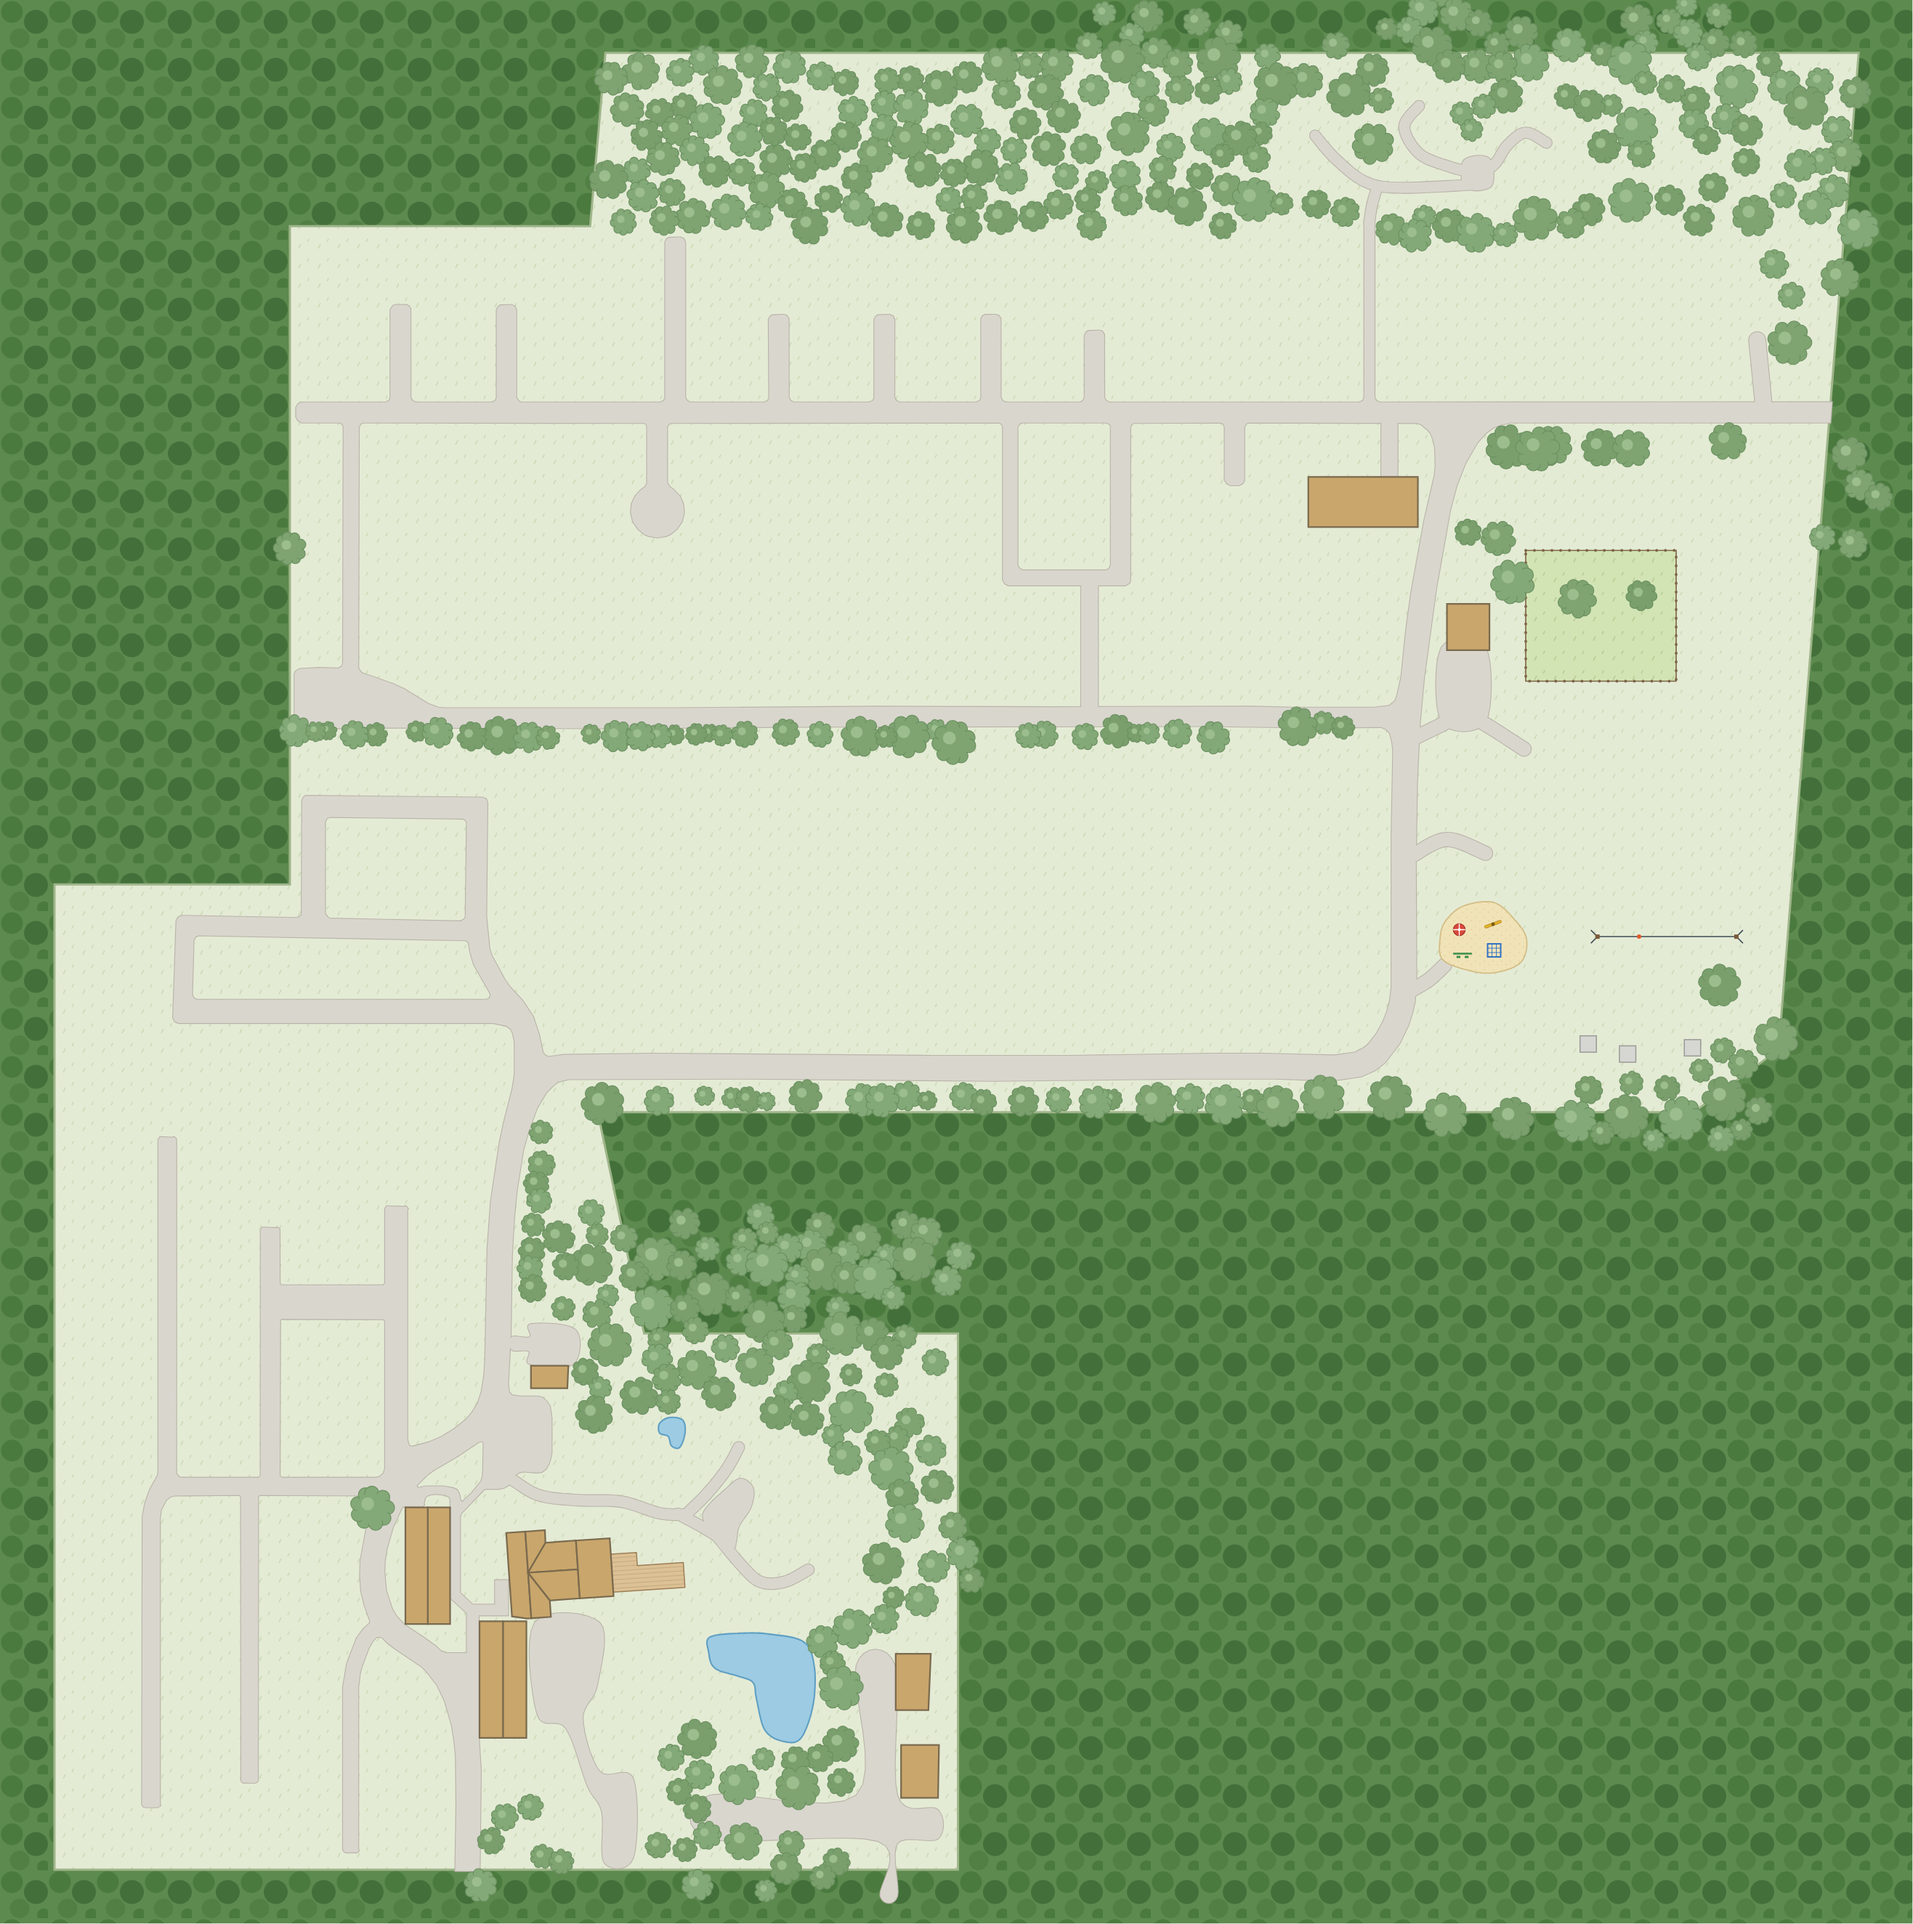
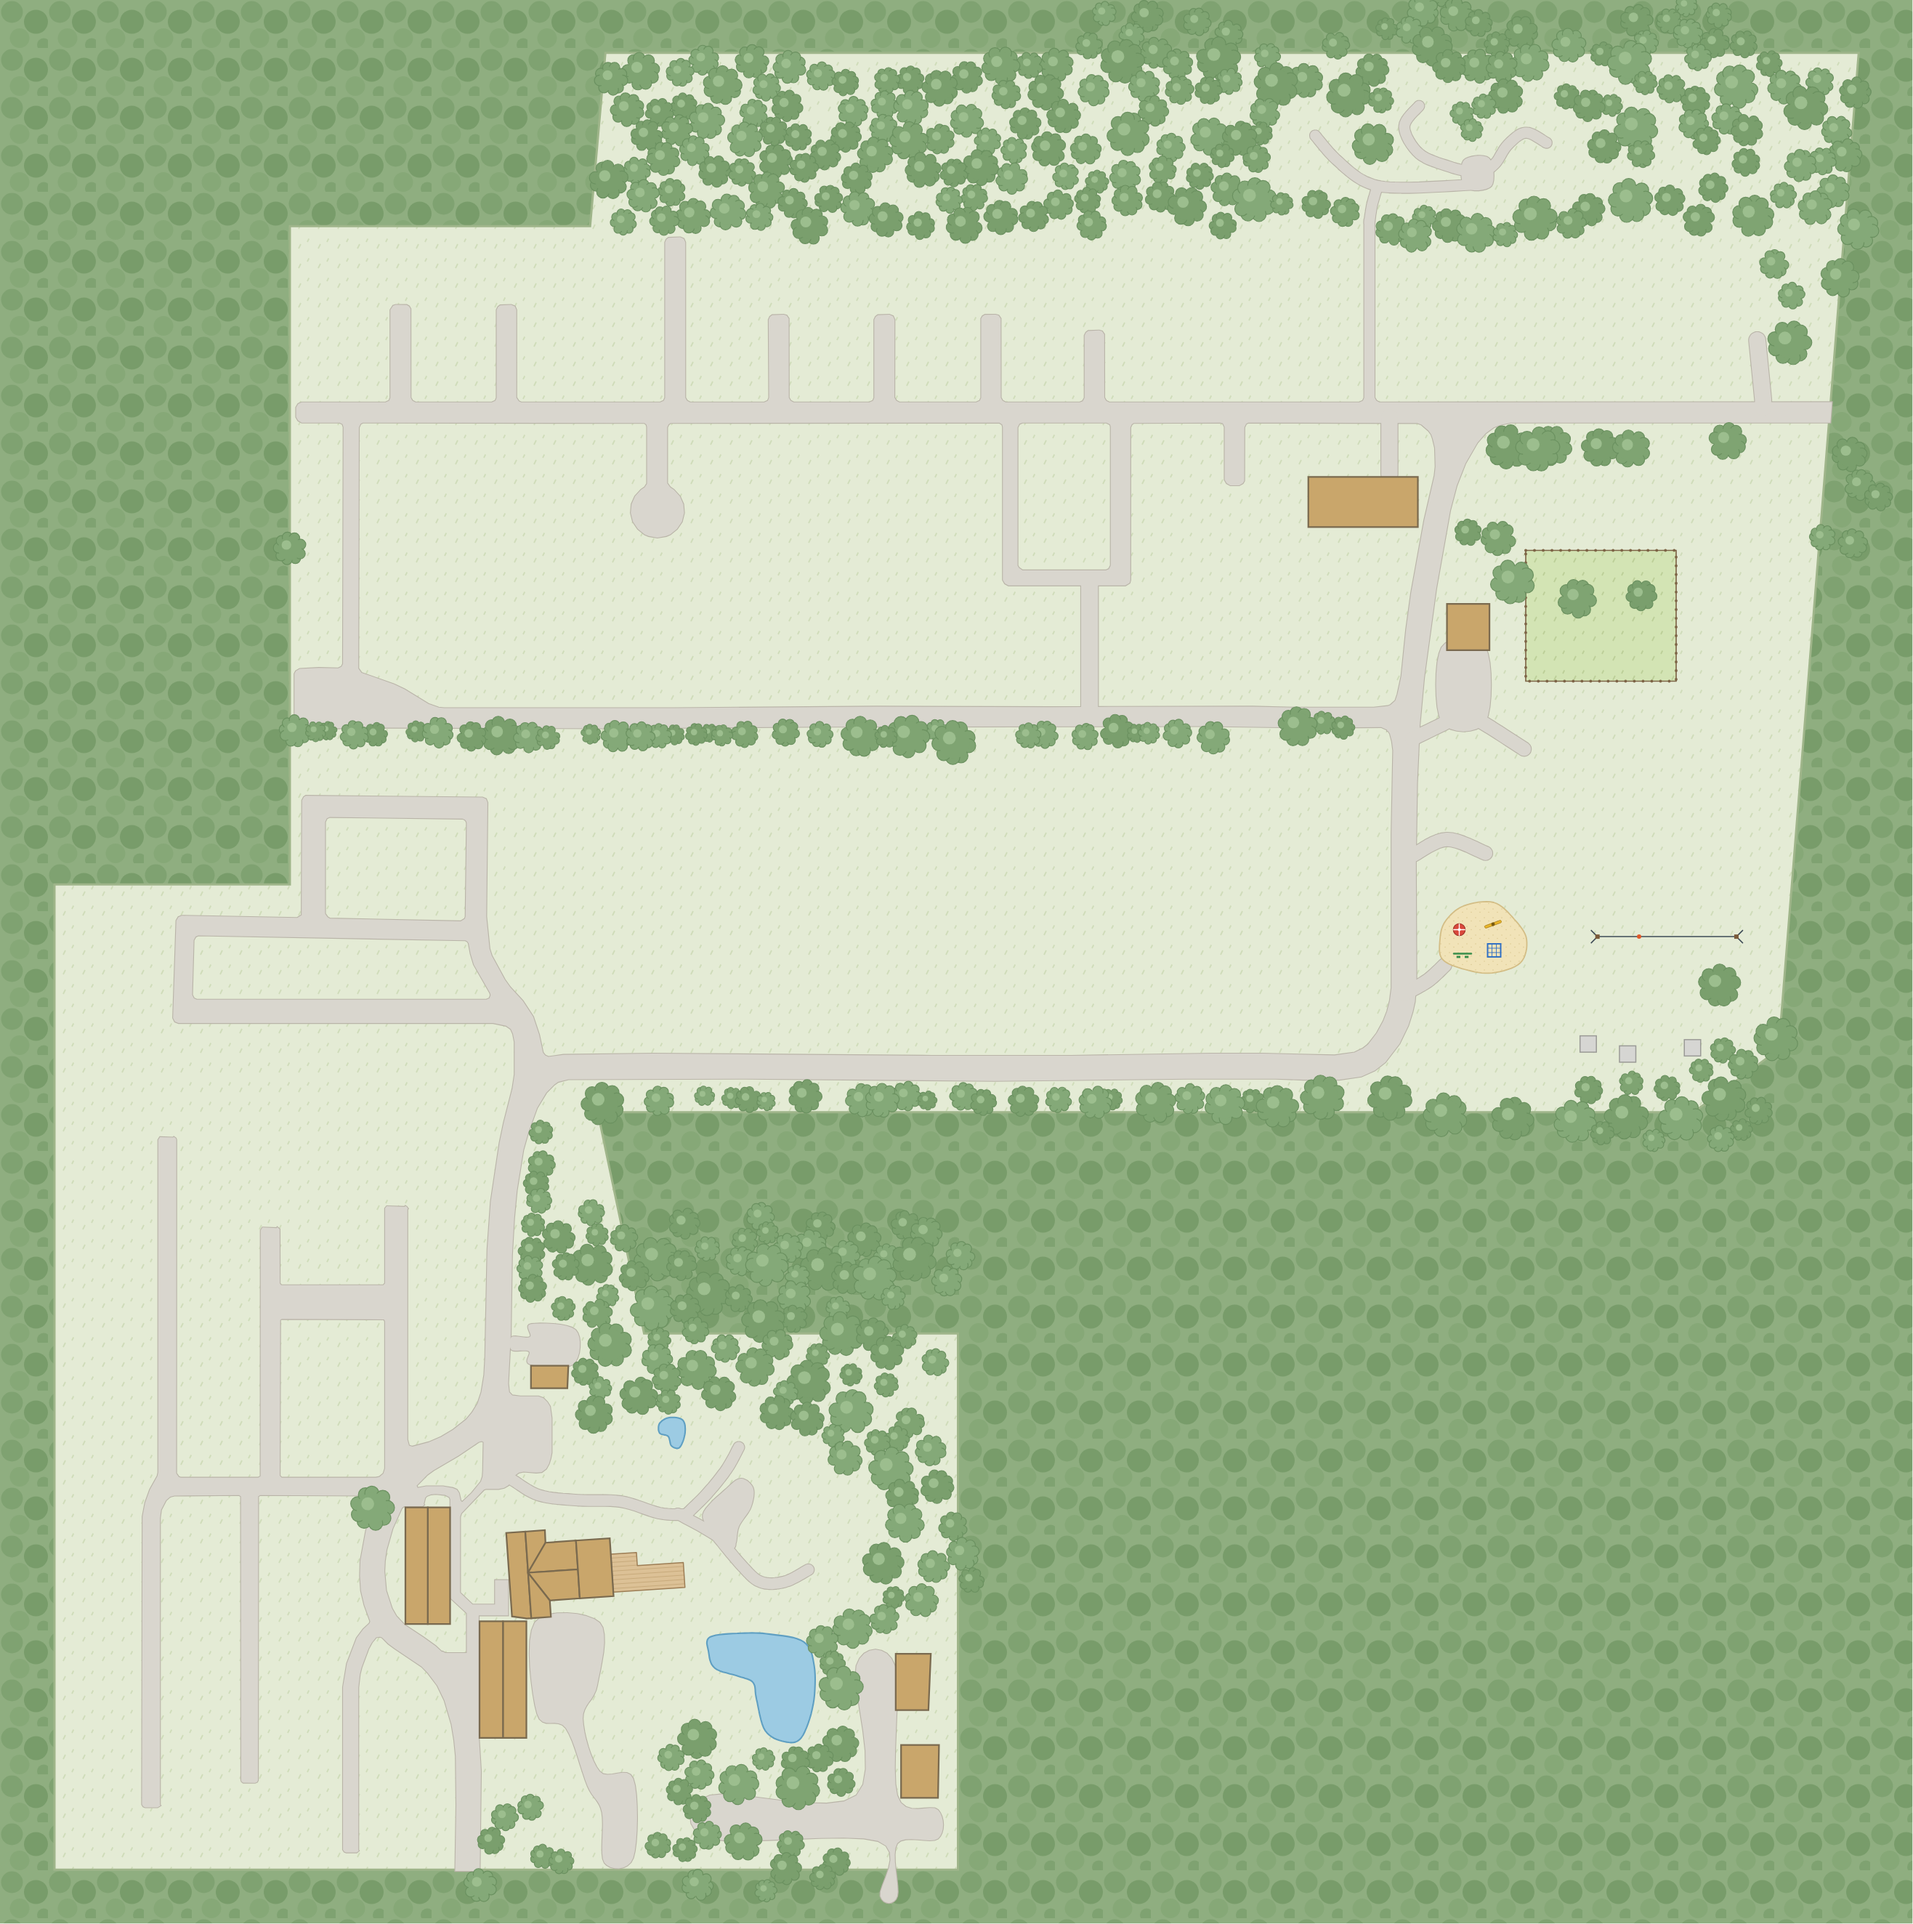
Map: grüner Waldhintergrund blasser
Claude-Session: https://claude.ai/code/session_01K9DeygwidK5Vn3tNvMZyhh

diff --git a/css/style.css b/css/style.css
@@ -194,7 +194,7 @@ input:focus, select:focus, textarea:focus { outline: none; border-color: var(--w
 .map-modebar .grow { flex: 1; min-width: 160px; }
 
 .map-wrap { position: relative; flex: 1; min-height: 0; }
-#map { position: absolute; inset: 0; background: #5d8a4e; }
+#map { position: absolute; inset: 0; background: #8fae80; }
 #map.is-drawing { cursor: crosshair; }
 .leaflet-container { font-family: var(--font-body); }
 .leaflet-control-zoom a { width: 36px !important; height: 36px !important; line-height: 36px !important; color: var(--wald) !important; }

diff --git a/tools/plan_import.py b/tools/plan_import.py
@@ -327,9 +327,9 @@ def main():
     svg = [f'<svg xmlns="http://www.w3.org/2000/svg" viewBox="0 0 {W} {H}" width="{W}" height="{H}">',
            '<!-- Erzeugt mit tools/plan_import.py aus dem AutoCAD-Lageplan. Nicht von Hand bearbeiten. -->',
            '<defs>',
-           '<pattern id="wald" width="44" height="44" patternUnits="userSpaceOnUse"><rect width="44" height="44" fill="#5d8a4e"/>'
-           '<circle cx="11" cy="11" r="10" fill="#4b7a3f"/><circle cx="33" cy="20" r="11" fill="#43703a"/>'
-           '<circle cx="18" cy="35" r="9" fill="#527f44"/><circle cx="40" cy="41" r="6" fill="#4b7a3f"/></pattern>',
+           '<pattern id="wald" width="44" height="44" patternUnits="userSpaceOnUse"><rect width="44" height="44" fill="#8fae80"/>'
+           '<circle cx="11" cy="11" r="10" fill="#7fa271"/><circle cx="33" cy="20" r="11" fill="#789c6a"/>'
+           '<circle cx="18" cy="35" r="9" fill="#86a877"/><circle cx="40" cy="41" r="6" fill="#7fa271"/></pattern>',
            '<pattern id="gras" width="18" height="18" patternUnits="userSpaceOnUse"><rect width="18" height="18" fill="#e4ebd5"/>'
            '<path d="M4 12 l2 -4 M12 6 l1.5 -3" stroke="#cfdcb9" stroke-width="1.2"/></pattern>',
            '</defs>',

diff --git a/tools/plan_extras.py b/tools/plan_extras.py
@@ -22,6 +22,7 @@ from shapely.geometry import LineString, Point, Polygon
 from shapely.ops import nearest_points, unary_union
 
 ROOT = Path(__file__).resolve().parent.parent
+WALD_FARBEN = {'#5d8a4e': '#8fae80', '#4b7a3f': '#7fa271', '#43703a': '#789c6a', '#527f44': '#86a877'}
 ROAD_FILL, ROAD_EDGE = '#d9d6ce', '#b9b4a8'   # wie die Wege aus plan_import.py
 
 
@@ -254,6 +255,9 @@ def main():
     had = 'wald' in F
     svg = Path(args.svg).read_text()
     svg = re.sub(r'<g id="extras">.*?<!-- /extras -->\n', '', svg, flags=re.S)   # alte Extras entfernen
+    # Waldhintergrund blasser (ältere Pläne aus plan_import.py hatten kräftigere Farben)
+    for old, new in WALD_FARBEN.items():
+        svg = svg.replace(f'fill="{old}"', f'fill="{new}"')
     mark = '<g fill="#c9a66b"'
     svg = svg.replace(mark, build(F, svg, args.preview_plane) + '\n' + mark, 1)
     Path(args.svg).write_text(svg)
